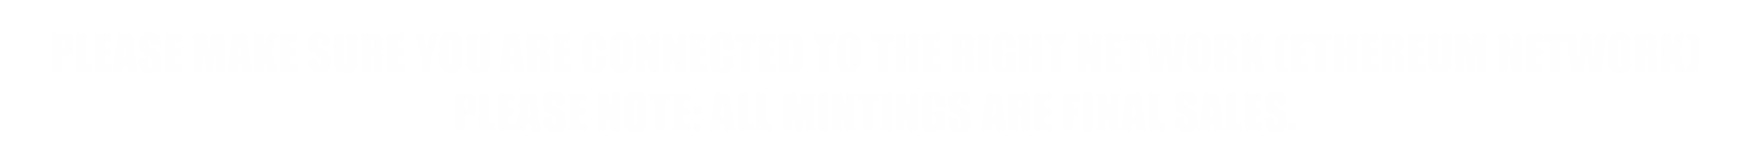
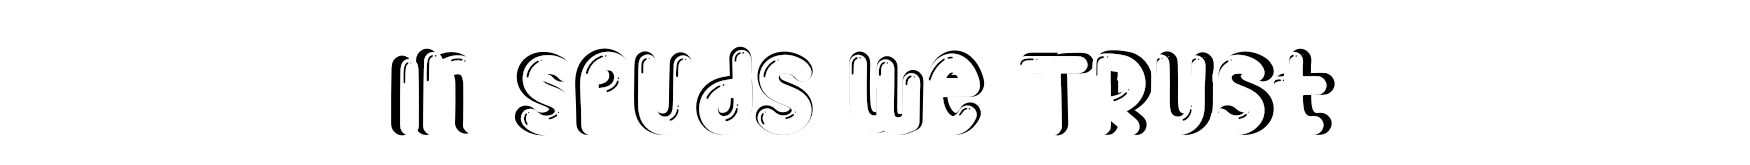
Tater Style

Changed region(s): [[0.216, 0.2727, 0.7714, 0.8182], [0.4937, 0.7879, 0.5246, 0.8182]]

diff --git a/src/App.css b/src/App.css
@@ -7,7 +7,7 @@ body, html {height: 100%}
   color: white;
   height: 100vh;
   background-color: #000000;
-  background-image: url("https://i.imgur.com/HtiFTgd.png");
+  background-image: url("https://i.imgur.com/zcv7h8X.jpg");
   background-size: cover;
   display: flex;
   justify-content: center;
@@ -138,7 +138,7 @@ body, html {height: 100%}
 }
 
 .btn-connect {
-  border: 1px solid white;
+  border: 1px solid rgba(255, 255, 255, 0);
   border-radius: 999px;
   padding: 0.725rem 1.75rem;
   width: 100%;
@@ -189,8 +189,11 @@ body, html {height: 100%}
   line-height: 30px;
   padding: 0 2px;
   min-width: 35px;
-  background: transparent;
+  background: #0000008f;
+  border-radius: 90px;
   text-align: center;
+  margin-left: 4px;
+  margin-right: 4px;
 }
 
 .qty {
@@ -223,10 +226,10 @@ div {
   text-align: center;
 }
 .minus:hover{
-  background-color: #ee00ff !important;
+  background-color: #9915bd !important;
 }
 .plus:hover{
-  background-color: #51ff00 !important;
+  background-color: #13800f !important;
 }
 /*Prevent text selection*/
 span{
@@ -490,7 +493,7 @@ input:disabled{
 }
 
 .btn-black  {
-  border: 1px solid white;
+  border: 1px solid rgb(234, 144, 11);
   /*width: 50%;*/
 }
 
@@ -508,10 +511,13 @@ input:disabled{
 
 .totalMint {
   font-size: xx-large;
-  font-family: 'Bangers', cursive;
+  font-family: 'Chewy', cursive;
+  background-image: linear-gradient(45deg, #f3ec78, #af4261);
+  border-radius: 50px;
 }
 
 .totalNumber {
   font-size: xx-large;
-  font-family: 'Bangers', cursive;
+  font-family: 'Chewy', cursive;
+  color: #ef386c;
 }

diff --git a/src/App.js b/src/App.js
@@ -1,7 +1,7 @@
 import './App.css';
 import 'font-awesome/css/font-awesome.min.css';
-import logo from './images/LostKids.png';
-import kid from "./images/kid.png";
+import logo from './images/tatelogo.png';
+import kid from "./images/flower.png";
 import connectWalletImg from "./images/Connect Wallet.png"
 import disconnectWalletImg from "./images/Disconnect.png"
 import mintImg from "./images/Mint.png"

diff --git a/public/index.html b/public/index.html
@@ -3,7 +3,7 @@
   <head>
     <meta charset="utf-8" />
     <style>
-      @import url('https://fonts.googleapis.com/css2?family=Bangers&display=swap');
+      @import url('https://fonts.googleapis.com/css2?family=Chewy&display=swap');
       </style>
     <link rel="preconnect" href="https://fonts.googleapis.com">
     <link rel="preconnect" href="https://fonts.gstatic.com" crossorigin>
